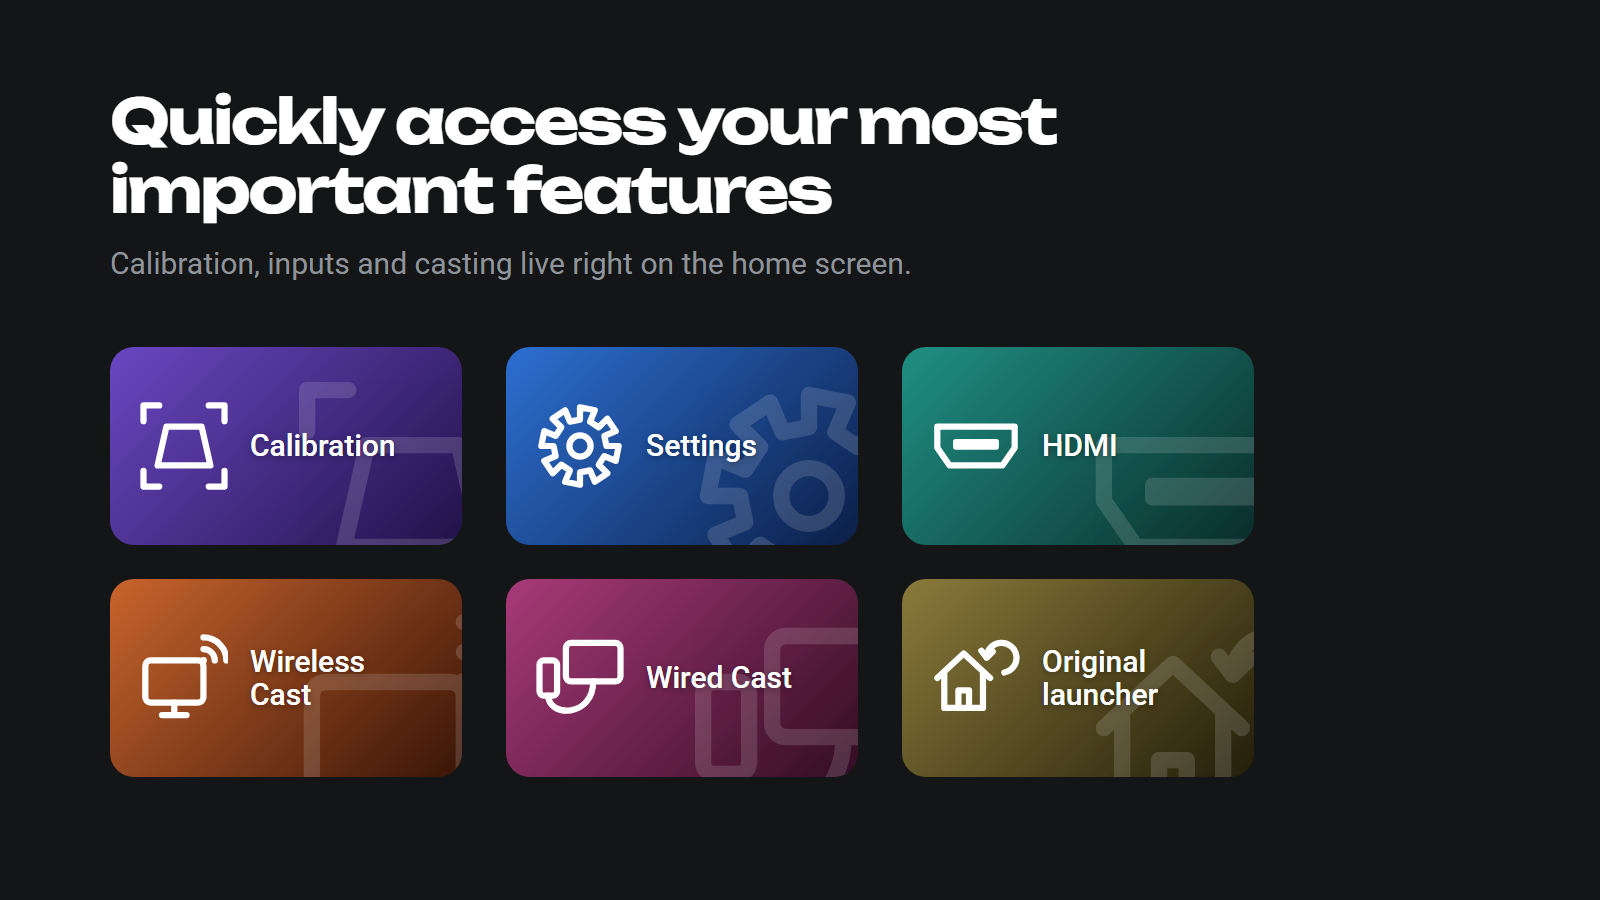
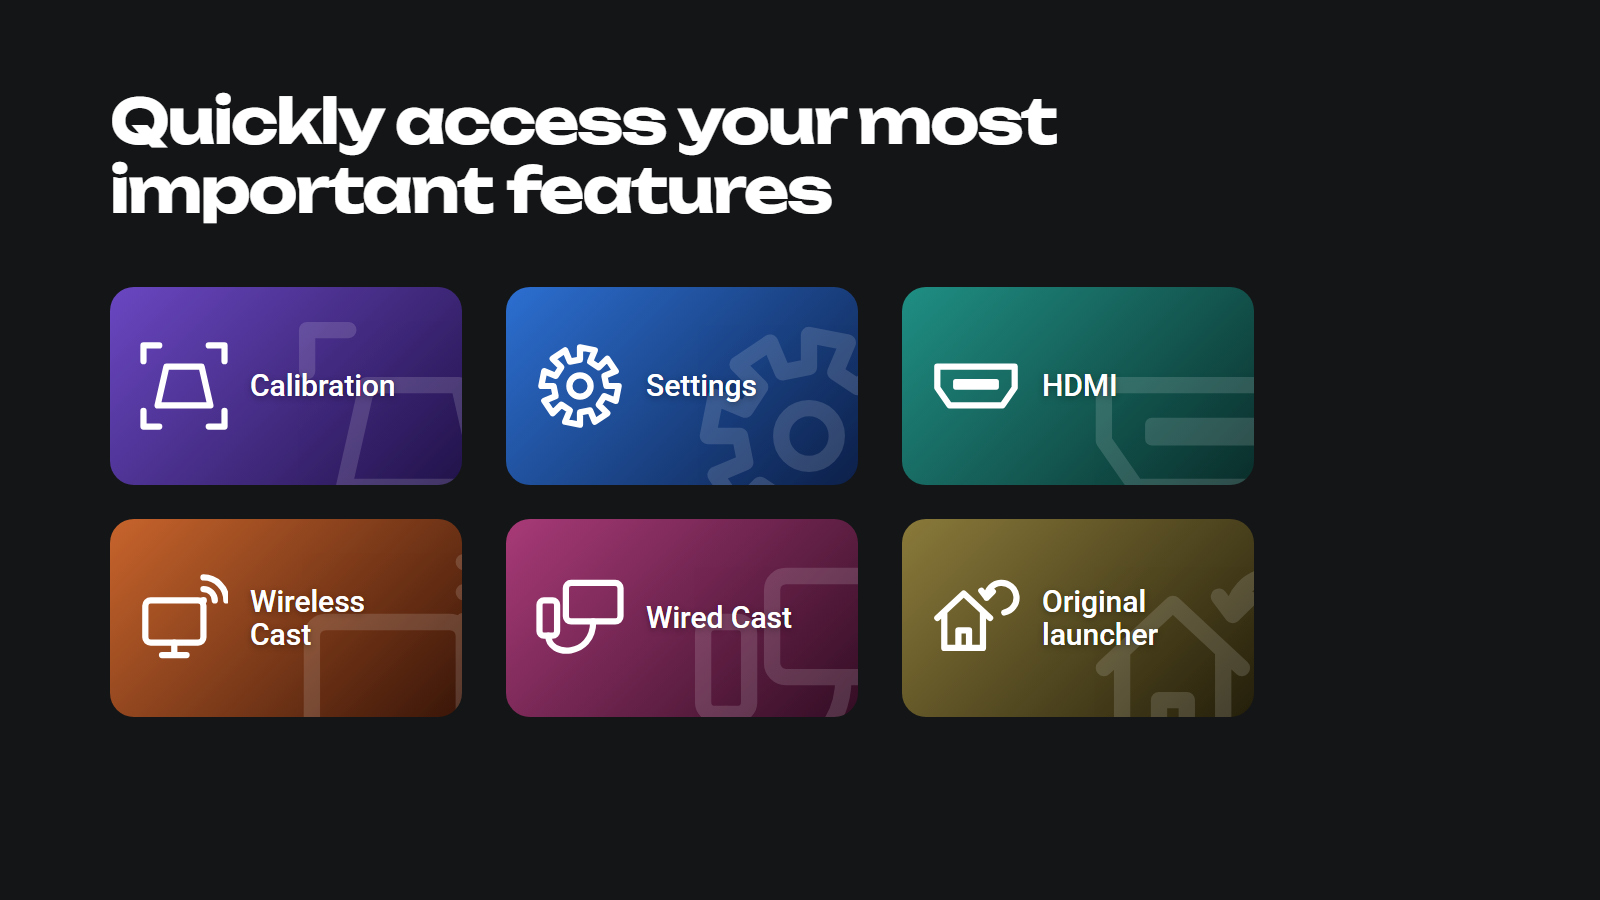
README: drop the install follow-up line and the tiles subtitle
Claude-Session: https://claude.ai/code/session_01Lj4wVPVGi7bqhehWZvuH4R

Changed region(s): [[0.0625, 0.28, 0.7812, 0.8711]]

diff --git a/docs/promo/tiles.html b/docs/promo/tiles.html
@@ -10,7 +10,6 @@
 </style></head>
 <body>
   <h2>Quickly access your most important features</h2>
-  <p>Calibration, inputs and casting live right on the home screen.</p>
   <div class="grid" id="grid"></div>
   <script src="tiles.js"></script>
   <script>document.getElementById('grid').innerHTML = ROLDOS_ORDER.map(k => roldosTile(k, false)).join('');</script>

diff --git a/README.md b/README.md
@@ -7,7 +7,7 @@
 </p>
 
 <p align="center">
-  <img src="docs/images/tiles.png?v=2" alt="Quickly access your most important features: Calibration, Settings, HDMI, Wireless Cast, Wired Cast and Original launcher tiles." width="100%">
+  <img src="docs/images/tiles.png?v=3" alt="Quickly access your most important features: Calibration, Settings, HDMI, Wireless Cast, Wired Cast and Original launcher tiles." width="100%">
 </p>
 
 ## Why you'll like it
@@ -24,8 +24,6 @@
 adb connect <device-ip>:5555
 ./build.sh install <device-ip>:5555
 ```
-
-That's it: RoldOS becomes your home screen and the remote's Home button opens it.
 
 <sub>Measured on a Magcubic projector (Allwinner H713, 1 GB RAM, Android 11). Details in [JOURNAL.md](JOURNAL.md).</sub>
 
